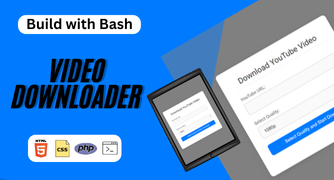
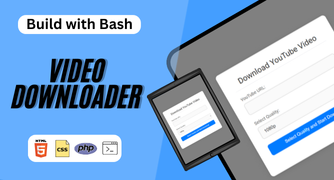
modified projects cards

diff --git a/css/style.css b/css/style.css
@@ -807,90 +807,4 @@ body{
 
 }
 
-.text-animation {
-  font-size: 34px;
-  font-weight: 600;
-  min-width: 280px;
 
-}
-
-.text-animation span{
-  position: relative;
-}
-
-.text-animation span::before{
-  content: "Frontend Developer";
-  color: black;
-  animation: words 20s infinite;
-}
-
-.text-animation span::after{
-  content: "";
-  background-color: black;
-  position: absolute;
-  width: calc(100%+ 8px);
-  height: 100%;
-  border-left:3px solid black ;
-  right: -8px;
-  animation: cursor 0.6s infinite,typing 20s steps(14) infinite;
-}
-
-@keyframes cursor{
-  to{
-    border-left:2px solid black;  
-  }
-}
-
-@keyframes words {
-  0%,
-  20%{
-  content: "Java Developer";
-  }
-
-  21%,
-  40%{
-    content: "Spring Developer";
-  }
-  41%,
-  60%{
-    content: "React.js Developer";
-  }
-  61%,
-  80%{
-    content:"Web Developer";
-  }
-  81%,
-  100%{
-    content:"Software Developer";
-  }  
-}
-
-@keyframes typing{
-  10%,
-  15%,
-  30%,
-  35%,
-  50%,
-  55%,
-  70%,
-  75%,
-  90%,
-  95%{
-    width:0;
-  }
-  5%,
-  20%,
-  25%,
-  40%,
-  45%,
-  60%,
-  65%,
-  80%,
-  85%,
-  100%{
-    width: calc(100% + 8px);
-  }
-
-
-
-}

diff --git a/index.html b/index.html
@@ -156,11 +156,11 @@
                                         <span class="label-large card-subtitle">Web App</span>
                                         <h3 class="title-large card-title">Video Downloader</h3>
                                     </div>
-                                    <a href="#" class="state-layer"></a>
+                                    <a href="https://github.com/SairamGolla918/youtube-downloader" target="_blank" class="state-layer"></a>
                                 </div>
                                 <div class="card">
                                     <figure class="card-banner img-holder" style="--width:334; --height:180;">
-                                        <img src="./assets/images/Pro1.png" alt="Project 1" class="img-cover">  
+                                        <img src="./assets/images/Pro2.png" alt="Project 1" class="img-cover">  
                                     </figure>
                                     <div class="card-content">
                                         <span class="label-large card-subtitle">Web App</span>
